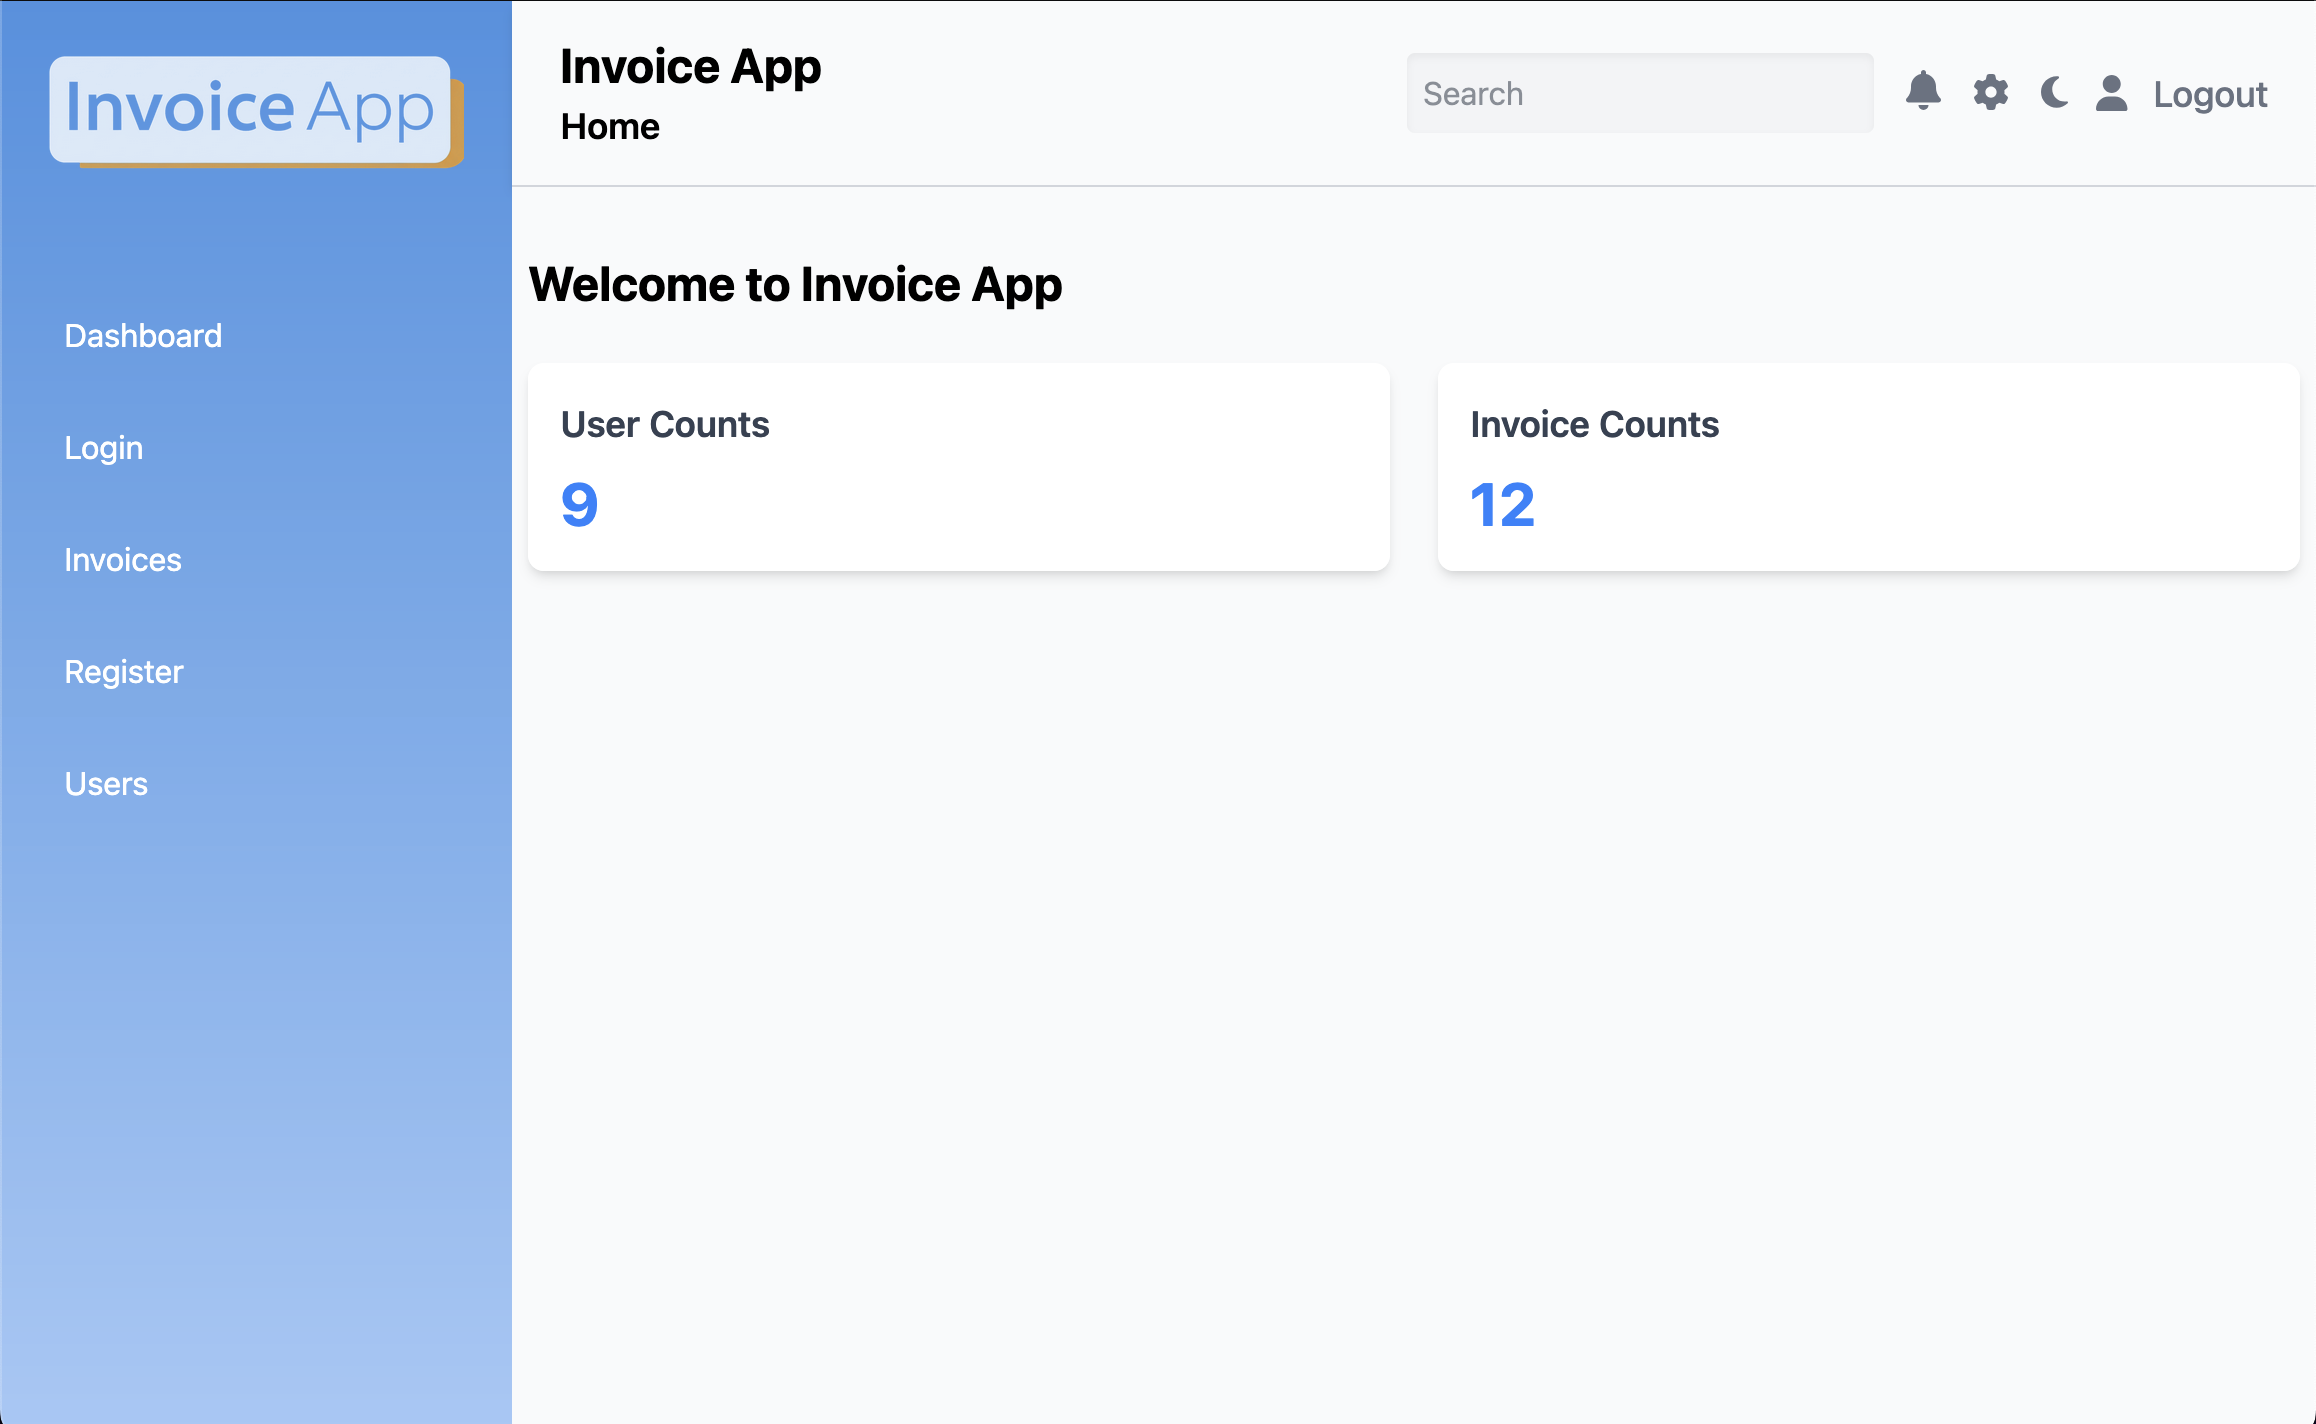
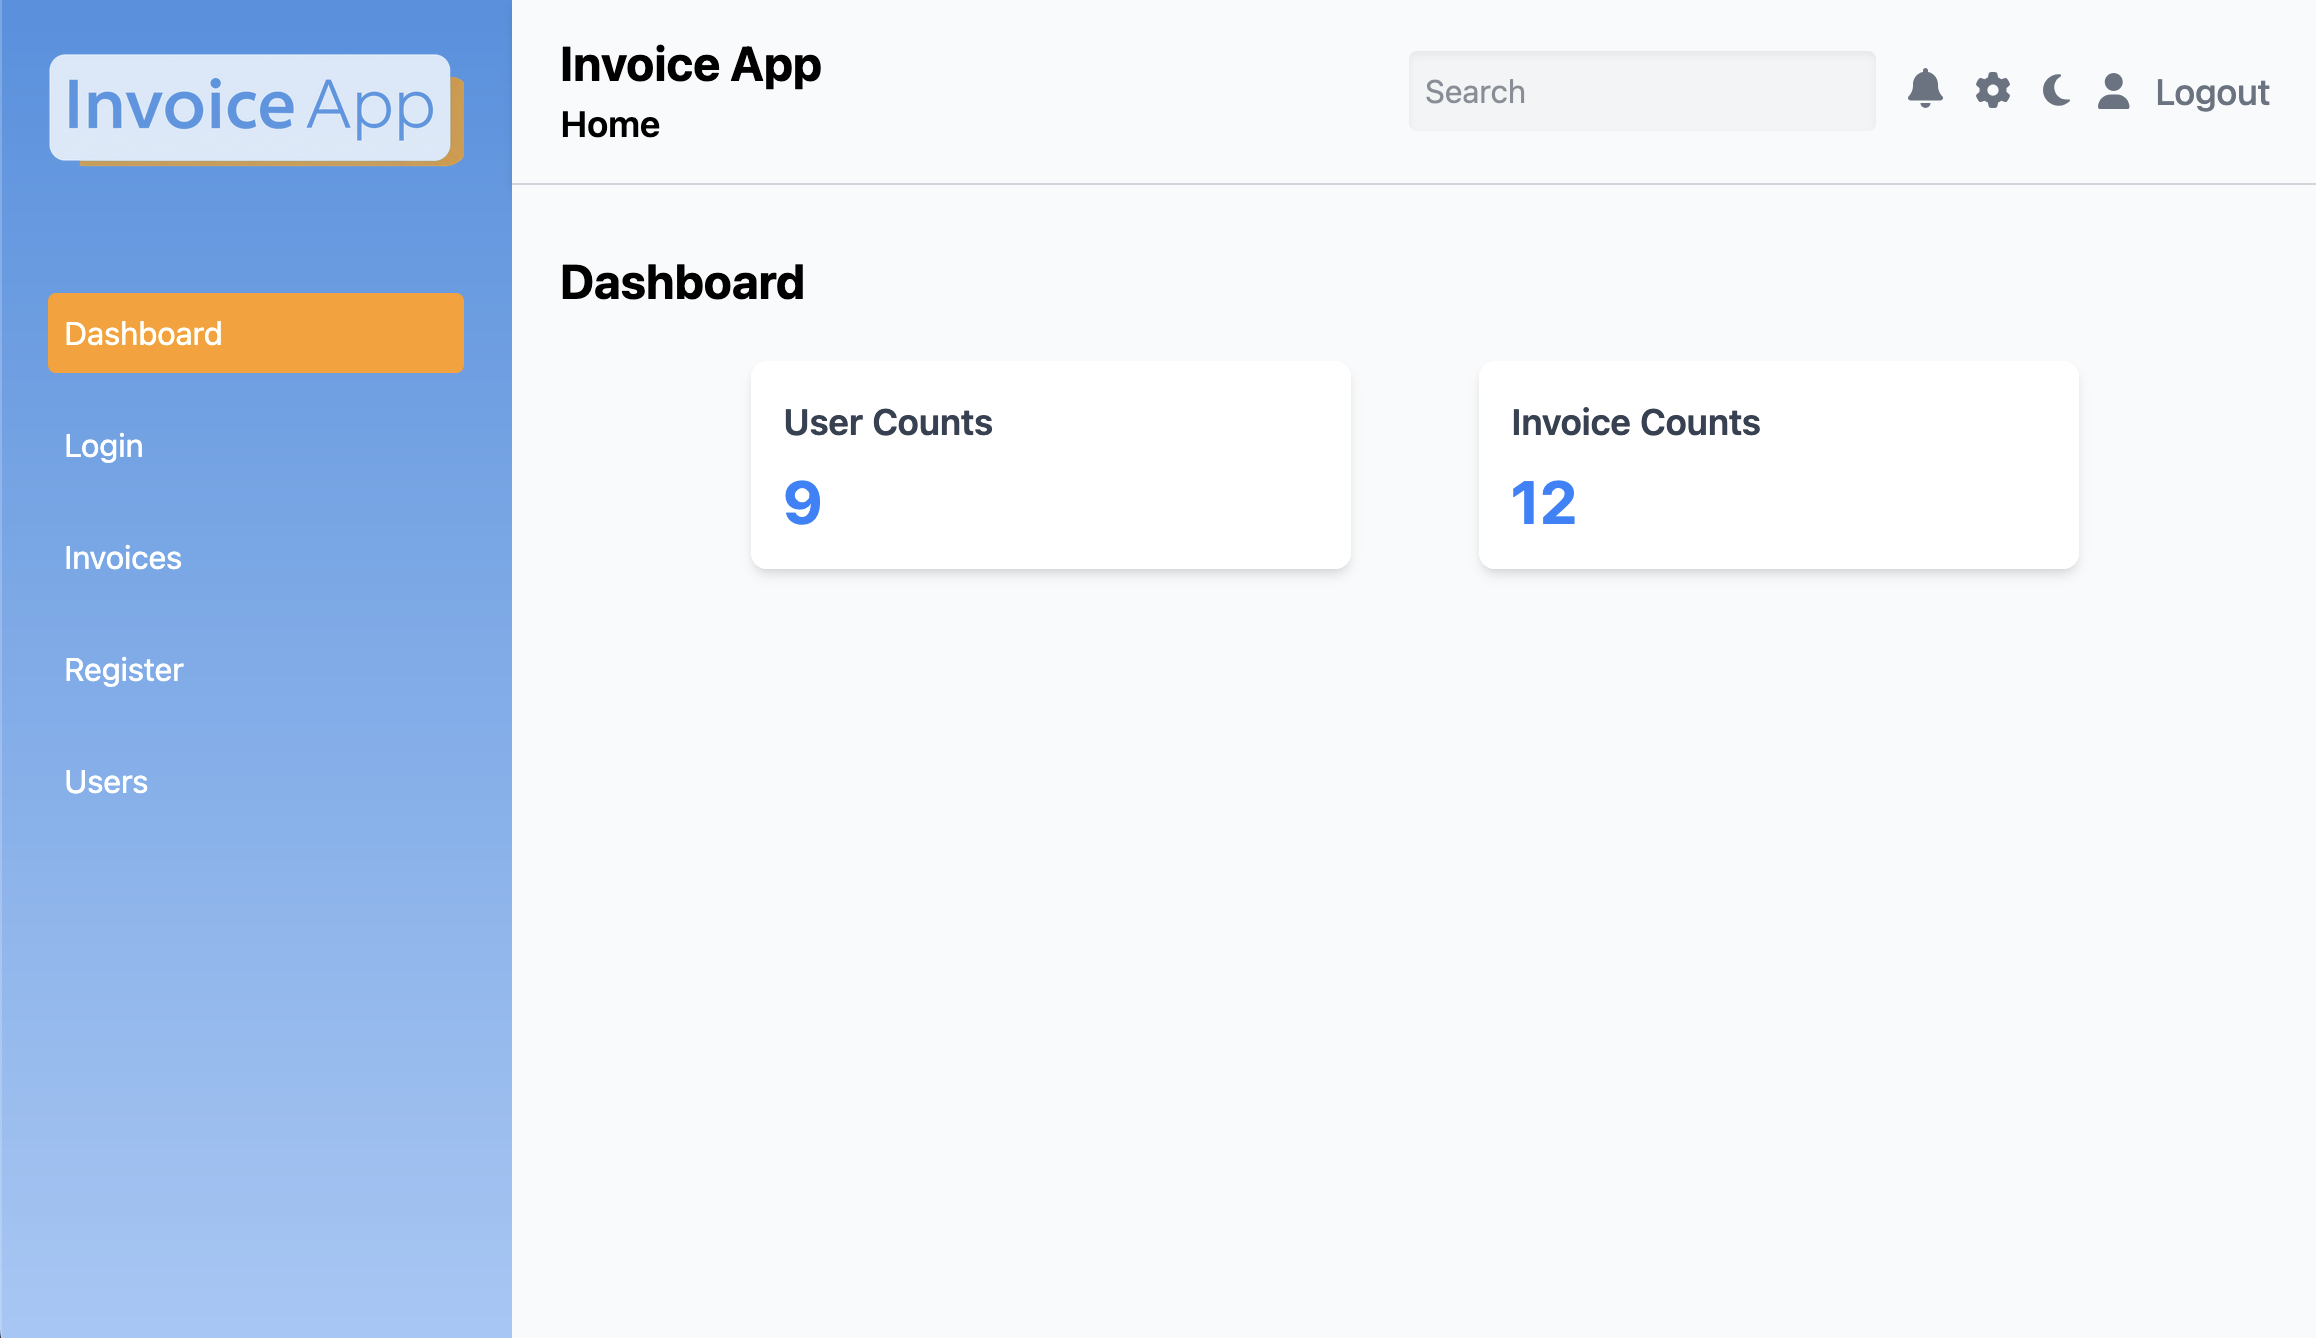
updated screen captures to reflect active page

diff --git a/readme.md b/readme.md
@@ -46,7 +46,7 @@ root/
    ![Login Page](./screenCaptures/Login_Page.png)
 
 1. **Invoices Page**
-   ![Invoice Page](./screenCaptures/Invoice_Page.png)
+   ![Invoice Page](./screenCaptures/Invoices_Page.png)
 
 1. **Invoice Details Modal**
    ![Invoice Details Modal](./screenCaptures/Invoices_Detailed_Modal.png)
